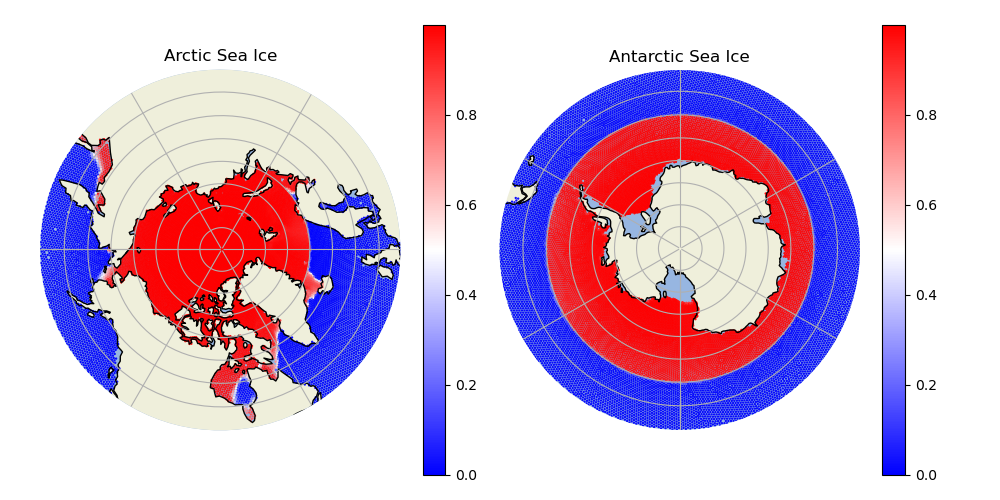
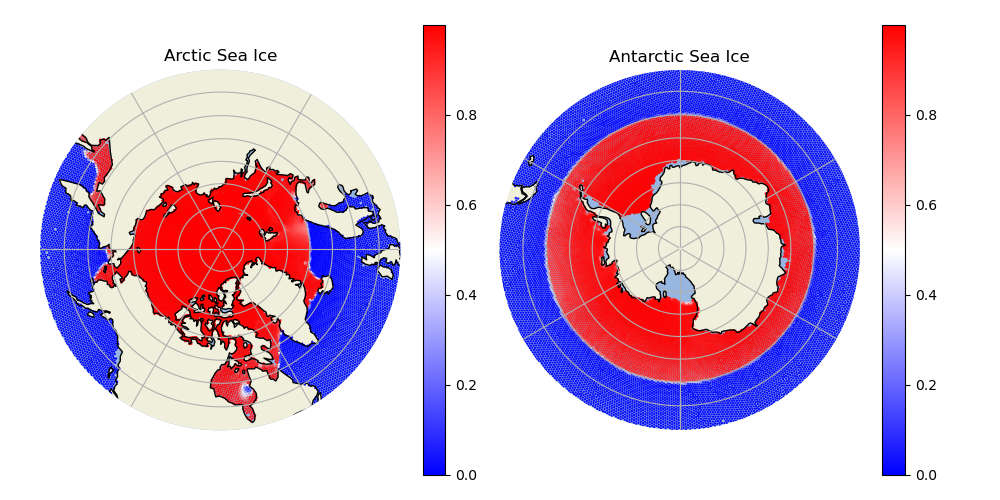
Made an animation of 5 days worth of sea ice data; refactored the visualization file a lot.

diff --git a/practice_plotting/e3sm_data_practice_visualization.py b/practice_plotting/e3sm_data_practice_visualization.py
@@ -1,5 +1,5 @@
-# Breanna Powell
-# Modified code from Mark Petersen and Savannah Byron
+# Author:   Breanna Powell
+# Date:     07/02/2024
 
 ##########
 # TO RUN #
@@ -22,17 +22,19 @@ import cartopy.crs as ccrs
 import cartopy.feature as cfeature
 
 # Constants
-MAXLONGITUDE =  180
-MINLONGITUDE = -180
-NORTHPOLE    =  90
-SOUTHPOLE    = -90
-LAT_LIMIT    =  50  # Good wide view for the north and south poles; change if you want a wider or narrower view.
+MAXLONGITUDE    =  180
+MINLONGITUDE    = -180
+NORTHPOLE       =  90
+SOUTHPOLE       = -90
+LAT_LIMIT       =  50  # Good wide view for the north and south poles; change if you want a wider or narrower view.
+VARIABLETOPLOT  = 'timeDaily_avg_iceAreaCell'   # The variable to plot
+
 
 # Change these for different runs
 runDir         = os.path.dirname(os.path.abspath(__file__))                                  # Get current directory path
 meshFileName   = r"\netCDF_files\seaice.EC30to60E2r2.210210.nc"                                       # .nc file for the mesh
 outputFileName = r"\netCDF_files\Breanna_D_test_1.mpassi.hist.am.timeSeriesStatsDaily.0001-01-01.nc"  # .nc file for the data to plot
-keyVariableToPlot      = 'timeDaily_avg_iceAreaCell'                                                 # The variable to plot
+
 
 def loadMesh(runDir, meshFileName):
     """ Load the mesh from an .nc file. The mesh must have the same resolution as the output file. """
@@ -44,27 +46,40 @@ def loadMesh(runDir, meshFileName):
 
     return latCell, lonCell
 
-def loadData(runDir, outputFileName, keyVariableToPlot):
+def loadData(runDir, outputFileName):
     """ Load the data from an .nc output file. Returns a 1D array of the variable you want to plot of size nCells.
     The indices of the 1D array match with those of the latitude and longitude arrays, which are also size nCells."""
     print('read: ', runDir, outputFileName)
 
-    # Load the data into a variable named "output"
-    output = netCDF4.Dataset(runDir + outputFileName)
-    var = output.variables[keyVariableToPlot][:]
+    return netCDF4.Dataset(runDir + outputFileName)
 
-    # Reduce the variable to 1D so we can use the indices.
-    # The indices for each cell of the variableToPlot1D array coincide with the indices of the latCell and lonCell.
-    variableToPlot1D = var[0,:]                                      
-    print("variableToPlot1D", variableToPlot1D[0:5])
+def printAllAvailableVariables(output):
+    """ See what variables you can use in this netCDF file. 
+    Requires having loaded a netCDF file into an output variable. """
+    print(output.variables) # See all variables available in the netCDF file
 
-    return variableToPlot1D
+def getNumberOfDays(output, keyVariableToPlot=VARIABLETOPLOT):
+    """ Find out how many days are in the simulation by looking at the netCDF file and at the variable
+     you have chosen to plot. """
+    variableForAllDays = output.variables[keyVariableToPlot][:]
+    return variableForAllDays.shape[0]
 
-def mapHemisphere(latCell, lonCell, variableToPlot1D, hemisphere, title, hemisphereMap):
+def reduceToOneDay(output, keyVariableToPlot=VARIABLETOPLOT, dayNumber=0):
+    """ Reduce the variable to one day's worth of data so we can plot using each indice per cell. 
+        The indices for each cell of the variableToPlot1Day array coincide with the indices 
+        of the latCell and lonCell. """
+    
+    variableForAllDays = output.variables[keyVariableToPlot][:]
+    variableToPlot1Day = variableForAllDays[dayNumber,:]                                     
+    # print("variableToPlot1Day", variableToPlot1Day[0:5])
+
+    return variableToPlot1Day
+
+def mapHemisphere(latCell, lonCell, variableToPlot1Day, hemisphere, title, hemisphereMap):
     """ Map one hemisphere onto a matplotlib figure. 
     You do not need to include the minus sign if mapping southern hemisphere. 
     This requires latCell and lonCell to be filled by a mesh file.
-    It also requires variableToPlot1D to be filled by an output .nc file. """
+    It also requires variableToPlot1Day to be filled by an output .nc file. """
     if hemisphere == "n":
         indices = np.where(latCell > LAT_LIMIT)     # Only capture points between the lat limit and the pole.
     elif hemisphere == "s":
@@ -72,10 +87,11 @@ def mapHemisphere(latCell, lonCell, variableToPlot1D, hemisphere, title, hemisph
     else:
         return
     
-    sc = hemisphereMap.scatter(lonCell[indices], latCell[indices], c=variableToPlot1D[indices], cmap='bwr', s=0.4, transform=ccrs.PlateCarree())
+    sc = hemisphereMap.scatter(lonCell[indices], latCell[indices], c=variableToPlot1Day[indices], cmap='bwr', s=0.4, transform=ccrs.PlateCarree())
     hemisphereMap.set_title(title)
     hemisphereMap.axis('off')
-    plt.colorbar(sc, ax=hemisphereMap)
+
+    return sc
 
 def makeCircle():
     """ Use this with Cartopy to make a circular map of the globe, 
@@ -99,10 +115,10 @@ def addMapFeatures(my_map, oceanFeature=1, landFeature=1, grid=1, coastlines=1):
     if (coastlines == 1):
         my_map.coastlines()
 
-def generateNorthandSouthPoleMaps(latCell, lonCell, variableToPlot1D, mapImageFileName, oceanFeature=1, landFeature=1, grid=1, coastlines=1):
-    """ Generate 2 maps; one of the north pole and one of the south pole. """
-    fig = plt.figure(figsize=[10, 5])
-
+def generateNorthandSouthPoleAxes():
+    """ Return a figure and axes (maps) to use for plotting data for the North and South Poles. """
+    fig = plt.figure(figsize=[10, 5]) #both north and south pole
+    
     # Define projections for each map.
     map_projection_north = ccrs.NorthPolarStereo(central_longitude=270, globe=None)
     map_projection_south = ccrs.SouthPolarStereo(central_longitude=0, globe=None)
@@ -110,6 +126,23 @@ def generateNorthandSouthPoleMaps(latCell, lonCell, variableToPlot1D, mapImageFi
     # Create the two maps as subplots of the figure.
     northMap = fig.add_subplot(1, 2, 1, projection=map_projection_north)
     southMap = fig.add_subplot(1, 2, 2, projection=map_projection_south)
+
+    return fig, northMap, southMap
+
+def generateNorthPoleAxes():
+    """ Return a figure and axes (map) to use for plotting data for the North Pole. """
+
+    fig = plt.figure(figsize=[5, 5]) #north pole only
+    
+    # Define projections for each map.
+    map_projection_north = ccrs.NorthPolarStereo(central_longitude=270, globe=None)
+    
+    # Create an axes for a map of the Arctic on the figure
+    northMap = fig.add_subplot(1, 1, 1, projection=map_projection_north)
+    return fig, northMap
+
+def generateNorthandSouthPoleMaps(fig, northMap, southMap, latCell, lonCell, variableToPlot1Day, mapImageFileName, oceanFeature=1, landFeature=1, grid=1, coastlines=1):
+    """ Generate 2 maps; one of the north pole and one of the south pole. """
 
     # Adjust the margins around the plots (as a fraction of the width or height).
     fig.subplots_adjust(bottom=0.05, top=0.95, left=0.04, right=0.95, wspace=0.02)
@@ -129,20 +162,53 @@ def generateNorthandSouthPoleMaps(latCell, lonCell, variableToPlot1D, mapImageFi
     southMap.set_boundary(makeCircle(), transform=southMap.transAxes)
 
     # Map the 2 hemispheres.
-    mapHemisphere(latCell, lonCell, variableToPlot1D, "n", "Arctic Sea Ice", northMap)     # Map northern hemisphere
-    mapHemisphere(latCell, lonCell, variableToPlot1D, "s", "Antarctic Sea Ice", southMap)  # Map southern hemisphere
+    scatter1 = mapHemisphere(latCell, lonCell, variableToPlot1Day, "n", "Arctic Sea Ice", northMap)     # Map northern hemisphere
+    scatter2 = mapHemisphere(latCell, lonCell, variableToPlot1Day, "s", "Antarctic Sea Ice", southMap)  # Map southern hemisphere
 
     # Save the maps as an image.
     plt.savefig(mapImageFileName)
+
+    return scatter1, scatter2
+
+def generateNorthPoleMap(fig, northMap, latCell, lonCell, variableToPlot1Day, mapImageFileName, oceanFeature=1, landFeature=1, grid=1, coastlines=1):
+    """ Generate 2 maps; one of the north pole and one of the south pole. """
+
+    # Adjust the margins around the plots (as a fraction of the width or height).
+    fig.subplots_adjust(bottom=0.05, top=0.95, left=0.04, right=0.95, wspace=0.02)
+
+    # Set your viewpoint (the bounding box for what you will see).
+    # You want to see the full range of longitude values, since this is a polar plot.
+    # The range for the latitudes should be from your latitude limit (i.e. 50 degrees or -50 to the pole at 90 or -90).
+    northMap.set_extent([MINLONGITUDE, MAXLONGITUDE, LAT_LIMIT, NORTHPOLE], ccrs.PlateCarree())
+
+    # Add map features, like landFeature and oceanFeature.
+    addMapFeatures(northMap, oceanFeature, landFeature, grid, coastlines)
+
+    # Crop the map to be round instead of rectangular.
+    northMap.set_boundary(makeCircle(), transform=northMap.transAxes)
+
+    # Map the 2 hemispheres.
+    scatter1 = mapHemisphere(latCell, lonCell, variableToPlot1Day, "n", "Arctic Sea Ice", northMap)     # Map northern hemisphere
+
+    # Save the maps as an image.
+    plt.savefig(mapImageFileName)
+
+    return scatter1
 
 def main():
 
     # Load the mesh and data to plot.
     latCell, lonCell = loadMesh(runDir, meshFileName)
-    variableToPlot1D = loadData(runDir, outputFileName, keyVariableToPlot)
+    output = loadData(runDir, outputFileName)
+    print("Days total: ", getNumberOfDays(output, keyVariableToPlot=VARIABLETOPLOT))
+    variableToPlot1Day = reduceToOneDay(output, keyVariableToPlot=VARIABLETOPLOT, dayNumber=1)
     mapImageFileName = 'seaice_Output.png'
-
-    generateNorthandSouthPoleMaps(latCell, lonCell, variableToPlot1D, mapImageFileName, 1,1,1,1)
+    
+    fig, northMap, southMap = generateNorthandSouthPoleAxes()
+    generateNorthandSouthPoleMaps(fig, northMap, southMap, latCell, lonCell, variableToPlot1Day, mapImageFileName, 1,1,1,1)
+    
+    fig, northMap = generateNorthPoleAxes()
+    generateNorthPoleMap(fig, northMap, latCell, lonCell, variableToPlot1Day, "seaice_north_pole", 1,1,1,1)
 
 if __name__ == "__main__":
     main()

diff --git a/practice_plotting/e3sm_data_over_time_visualization.py b/practice_plotting/e3sm_data_over_time_visualization.py
@@ -1,7 +1,32 @@
+import matplotlib.pyplot as plt
+import numpy as np
 
+import matplotlib.animation as animation
+from e3sm_data_practice_visualization import *
 
 def main():
-    print()
+
+    # Load the mesh and data to plot.
+    latCell, lonCell    = loadMesh(runDir, meshFileName)
+    output              = loadData(runDir, outputFileName)
+    days                = getNumberOfDays(output, keyVariableToPlot=VARIABLETOPLOT)
+    artists = []
+    mapImageFileName = 'seaice_Output_1.png'
+
+    fig, northMap, southMap = generateNorthandSouthPoleAxes()
+
+    for i in range(days):
+        day = reduceToOneDay(output, keyVariableToPlot=VARIABLETOPLOT, dayNumber=i)
+        northPoleScatter, southPoleScatter = generateNorthandSouthPoleMaps(fig, northMap, southMap, latCell, lonCell, day, mapImageFileName, 1,1,1,1)
+        artists.append([northPoleScatter, southPoleScatter])
+
+    ani = animation.ArtistAnimation(fig=fig, artists=artists, interval=1000)
+
+    plt.colorbar(northPoleScatter, ax=northMap)
+    plt.colorbar(southPoleScatter, ax=southMap)
+
+    plt.show()
+    ani.save(filename="world.gif", writer="pillow")
 
 if __name__ == "__main__":
     main()
